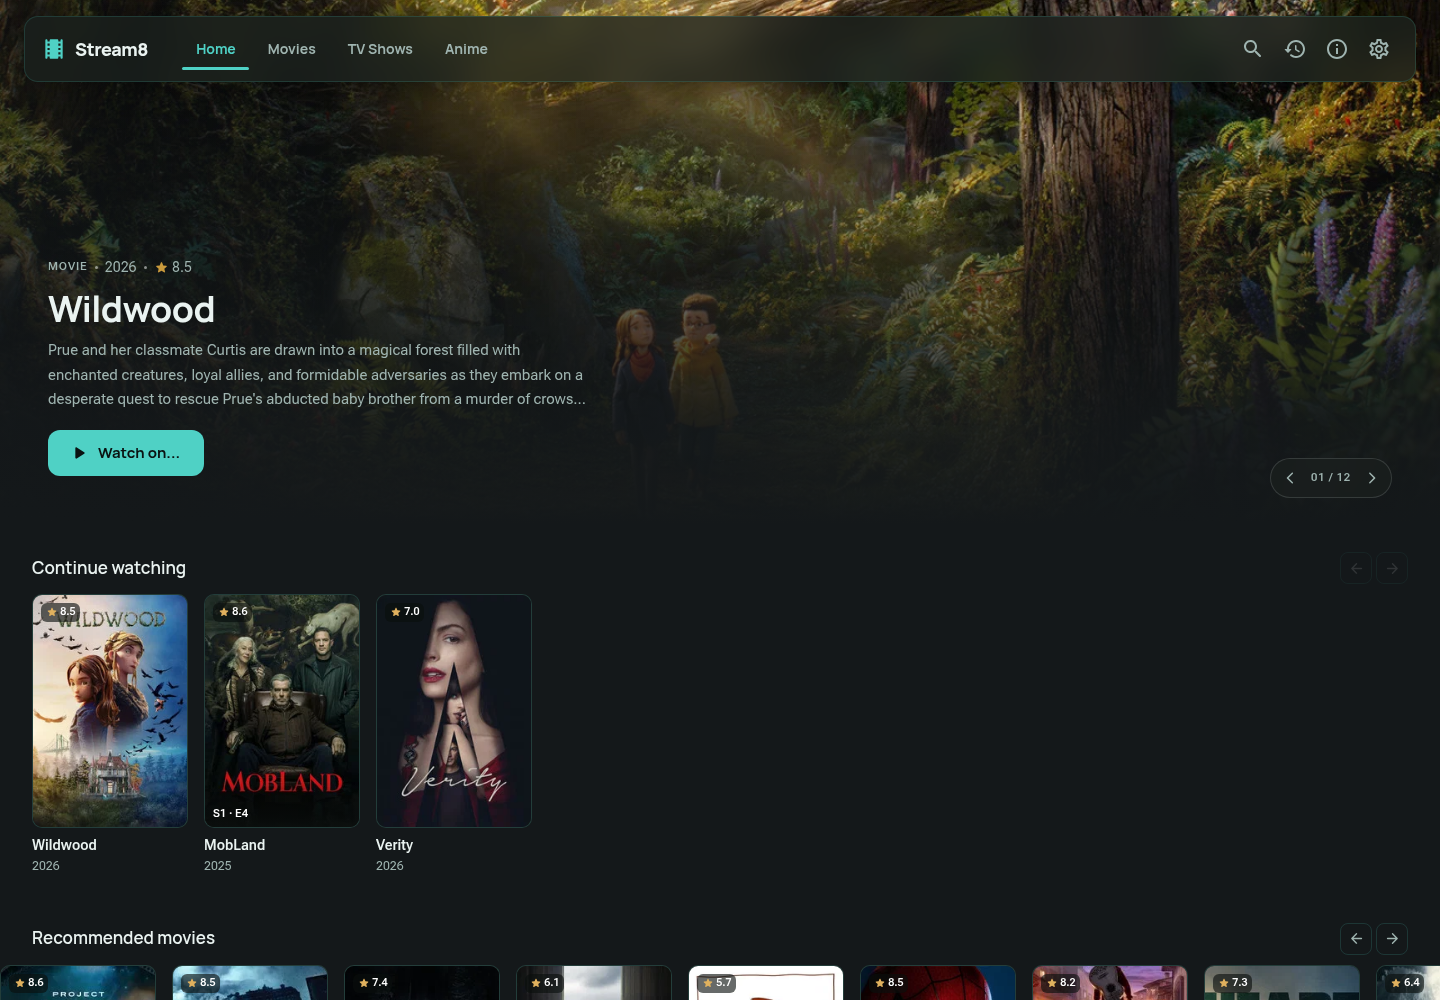
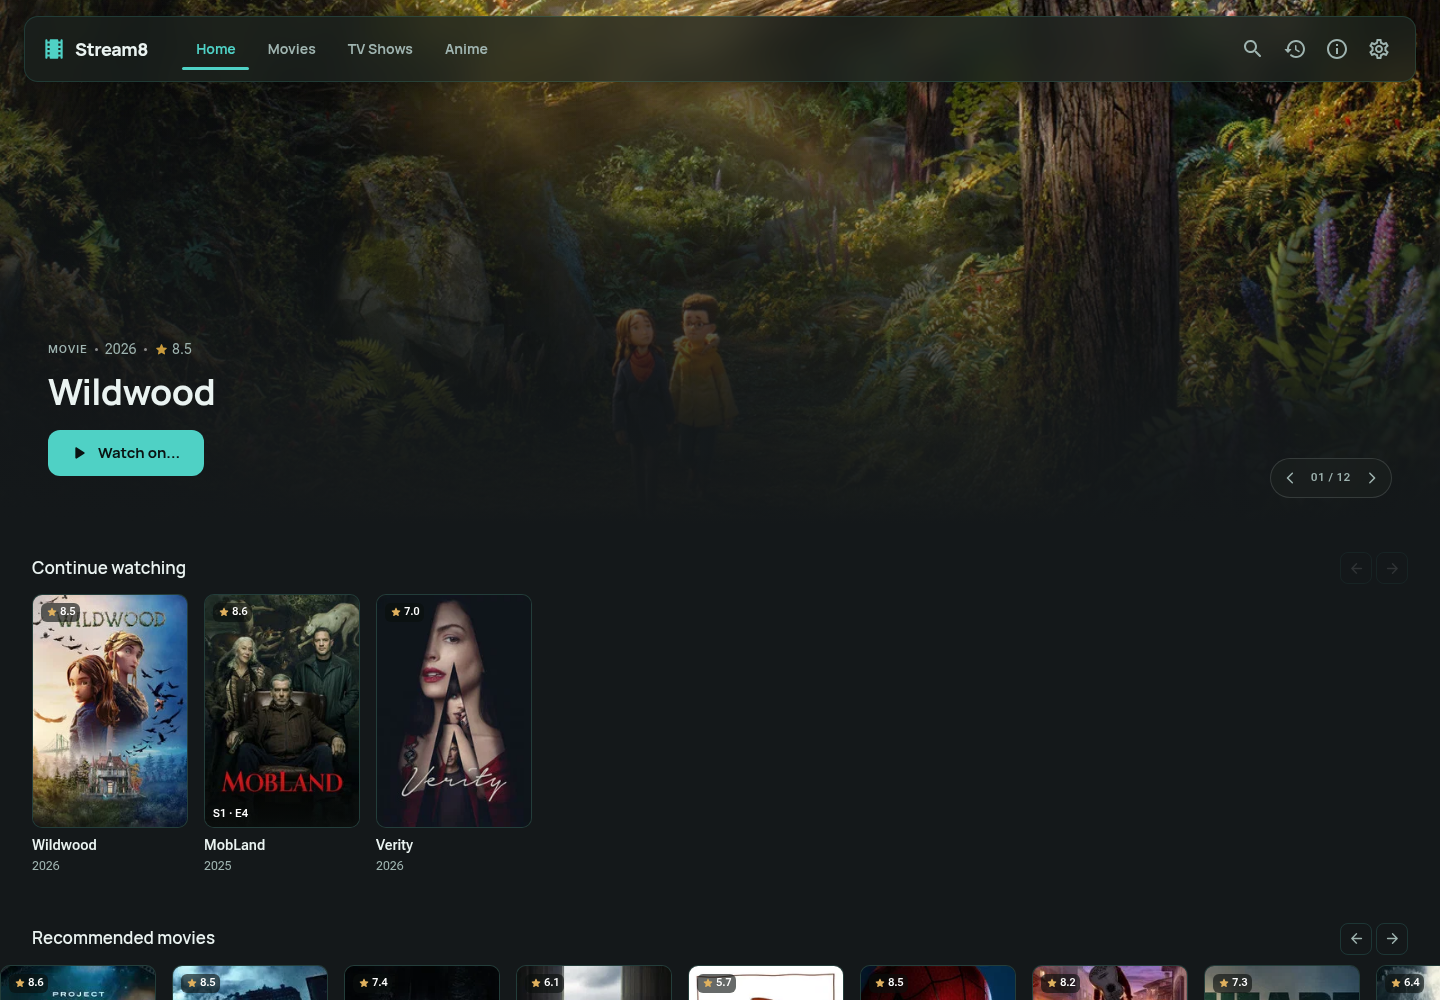
feat(home): let the hero breathe without an overview
Remove the long synopsis from the homepage hero. Title, metadata, CTA and carousel dots now carry the slide, leaving more room for the artwork and a cleaner composition, closer to the reference apps. The full overview remains on the detail page.

Changed region(s): [[0.0312, 0.248, 0.4062, 0.403]]

diff --git a/src/components/HeroSlider.jsx b/src/components/HeroSlider.jsx
@@ -266,27 +266,9 @@ export default function HeroSlider({ lang, items, onSelect, onPrefetch }) {
         <Typography
           component="h1"
           variant="h3"
-          sx={{ mb: 1, textWrap: 'balance', maxWidth: 620 }}>
+          sx={{ mb: { xs: 1.75, md: 2.25 }, textWrap: 'balance', maxWidth: 620 }}>
           {current.title}
         </Typography>
-
-        {current.overview && (
-          <Typography
-            variant="body2"
-            color="text.secondary"
-            sx={{
-              mb: 2.25,
-              maxWidth: 540,
-              fontSize: { xs: '0.875rem', md: '0.9375rem' },
-              lineHeight: 1.65,
-              overflow: 'hidden',
-              display: '-webkit-box',
-              WebkitLineClamp: 3,
-              WebkitBoxOrient: 'vertical',
-            }}>
-            {current.overview}
-          </Typography>
-        )}
 
         <Button
           variant="contained"
